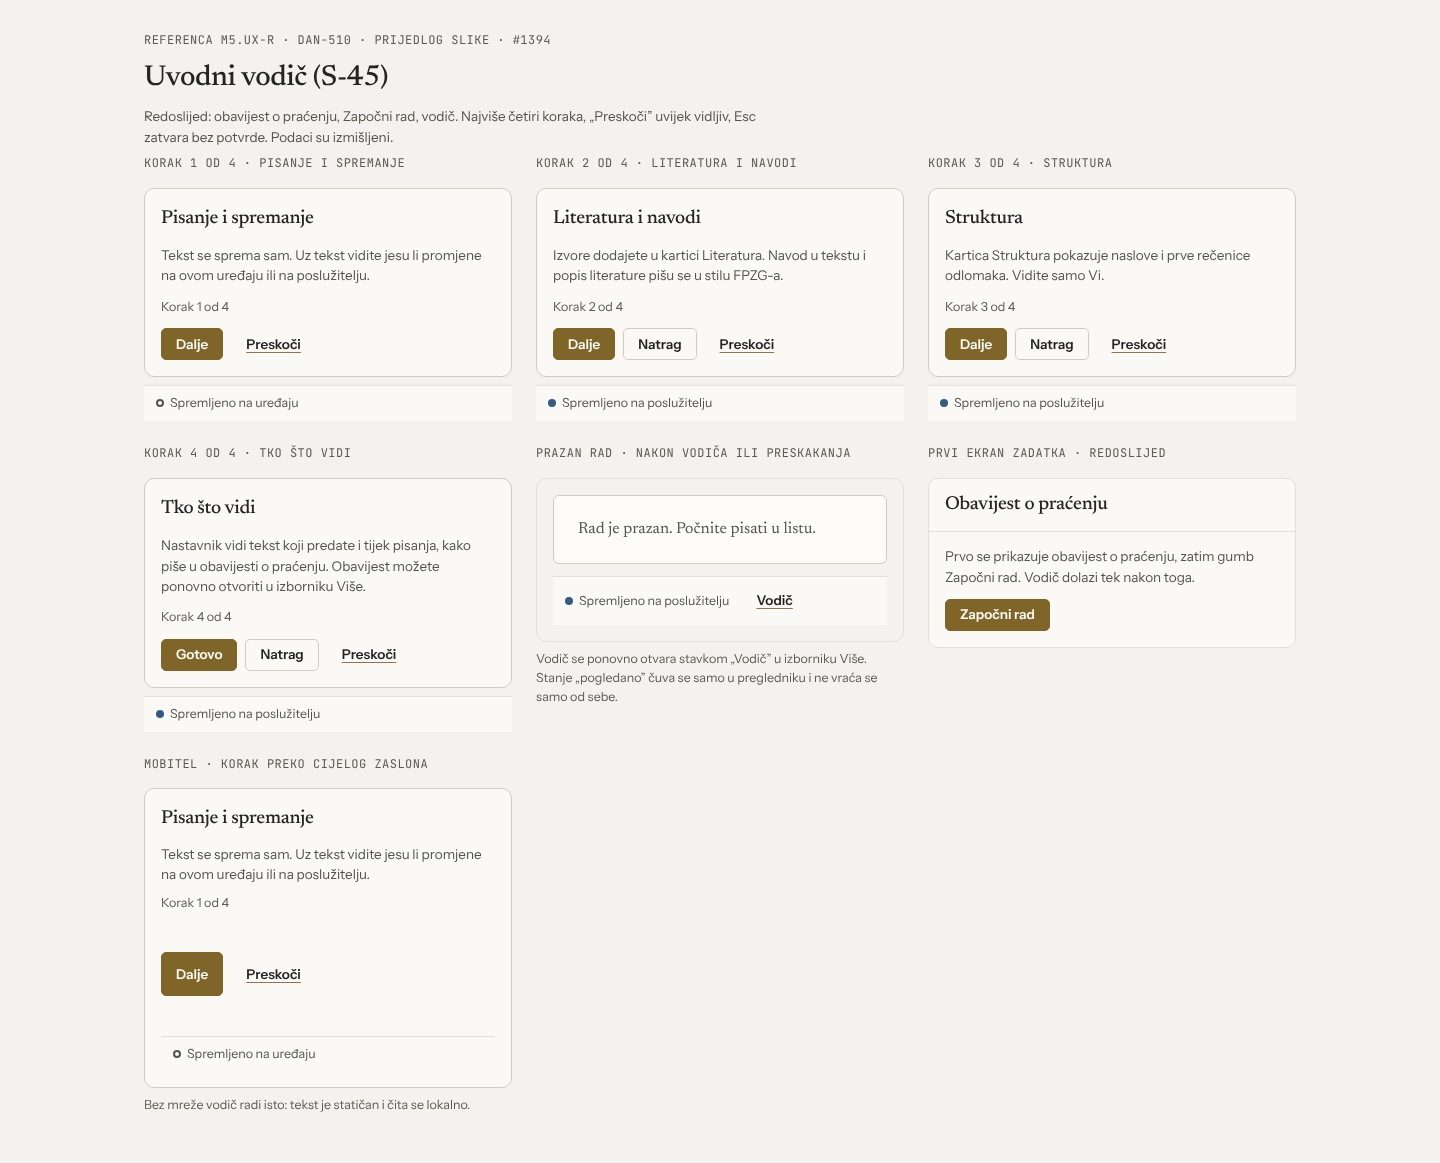
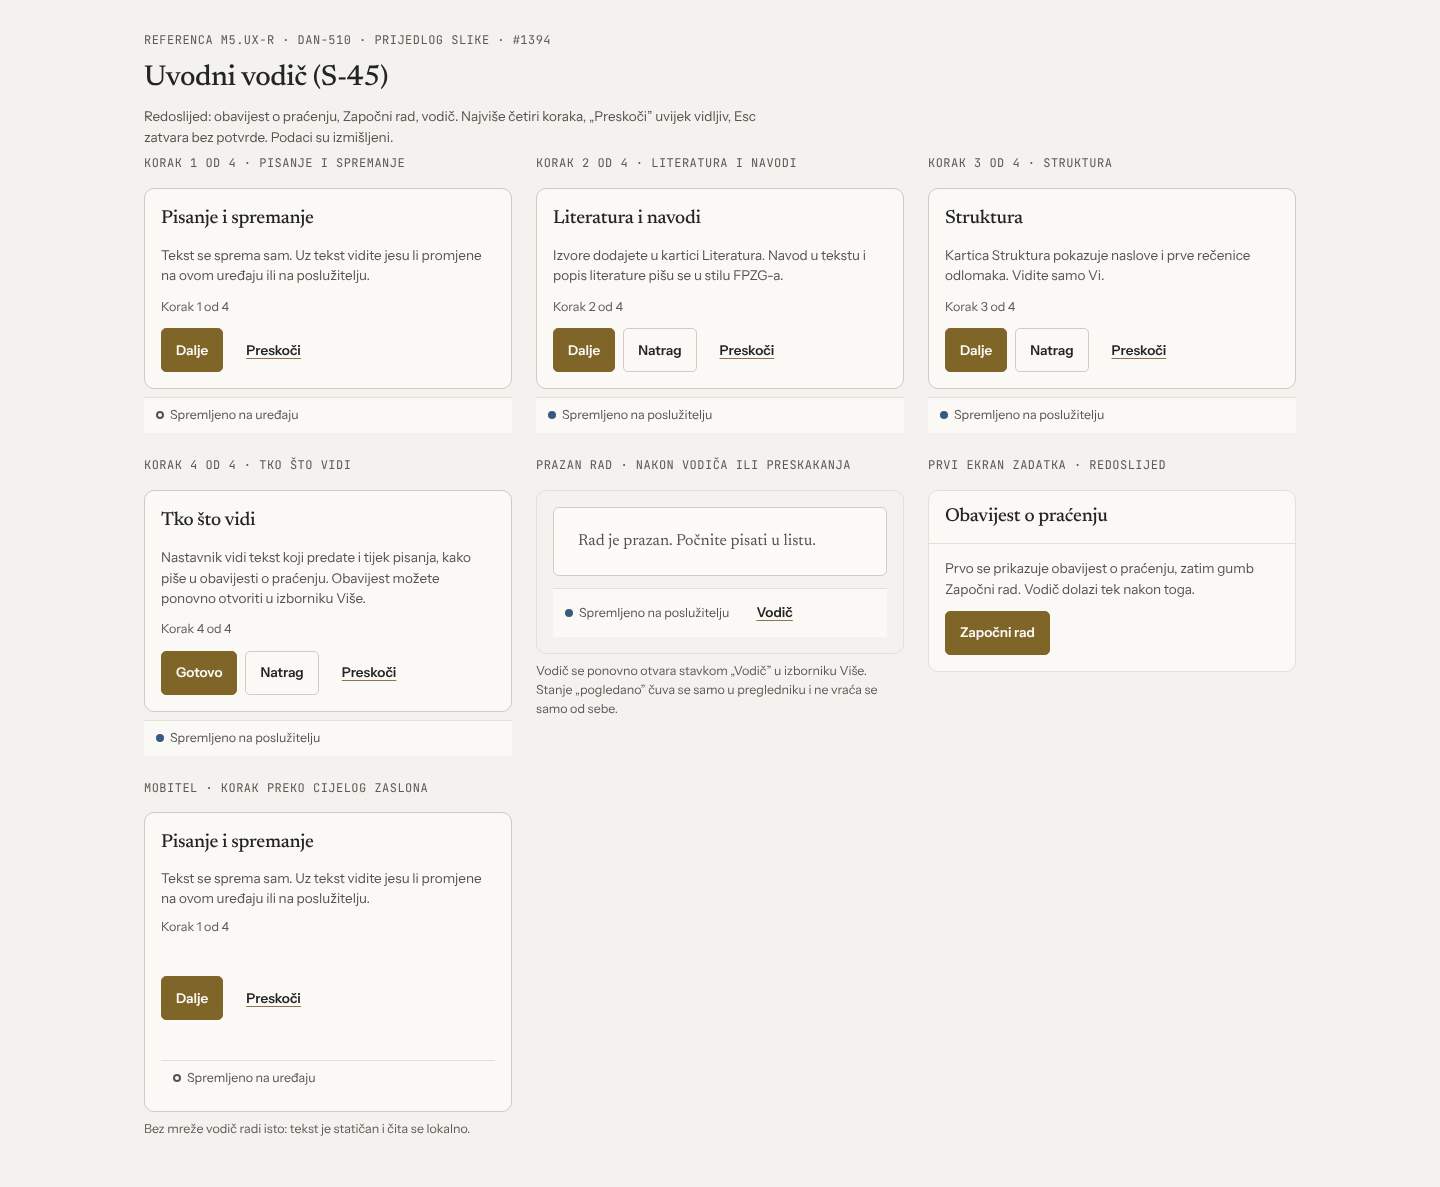
docs: take 44px default buttons from shared reference.css in M5 reference part B (DAN-510)
Claude-Session: https://claude.ai/code/session_011GCKG6LMy3uswLDwXF1SrX

diff --git a/docs/design/ductura/m5-reference/reference.css b/docs/design/ductura/m5-reference/reference.css
@@ -50,7 +50,7 @@ a { color: var(--accent); text-decoration: underline; text-decoration-color: var
 .row.stale .obs { color: var(--ink-2); }
 .stale-mark { font-size: 12.5px; color: var(--ink-2); font-weight: 600; }
 .facts { margin: 0; padding-left: 18px; color: var(--ink-2); display: grid; gap: 2px; }
-.btn { font: 600 13.5px/1 var(--ff-ui); min-height: 32px; padding: 0 14px; border-radius: 5px; border: 1px solid var(--accent); background: var(--accent); color: var(--accent-ink); justify-self: start; cursor: pointer; }
+.btn { font: 600 13.5px/1 var(--ff-ui); min-height: 44px; padding: 0 14px; border-radius: 5px; border: 1px solid var(--accent); background: var(--accent); color: var(--accent-ink); justify-self: start; cursor: pointer; }
 .btn.secondary { background: transparent; color: var(--ink); border-color: var(--rule); }
 .skel { height: 12px; border-radius: 4px; background: var(--well); }
 .skel.w60 { width: 60%; } .skel.w80 { width: 80%; } .skel.w40 { width: 40%; }
@@ -61,7 +61,9 @@ a { color: var(--accent); text-decoration: underline; text-decoration-color: var
 .page { max-width: 1200px; margin: 0 auto; padding: 0 24px 48px; display: grid; gap: 28px; }
 .variants { display: grid; grid-template-columns: repeat(3, 1fr); gap: 24px; align-items: start; }
 .variant { display: grid; gap: 8px; min-width: 0; }
-.btn.small { min-height: 32px; padding: 0 10px; }
+.btn.small { padding: 0 10px; }
+/* DESIGN-SYSTEM §5: 32 px samo u gustim trakama; drugdje i na mobitelu 44 px. */
+.panel-top .btn.small, .item .acts .btn.small, .statusbar .btn.small { min-height: 32px; }
 .btn.ghost { background: transparent; color: var(--ink); border-color: transparent; text-decoration: underline; text-decoration-color: var(--link-rule); text-underline-offset: 3px; }
 .btn[aria-disabled="true"] { opacity: 1; background: var(--well); color: var(--ink-3); border-color: var(--rule-2); cursor: not-allowed; }
 .tag { display: inline-block; font-size: 12.5px; font-weight: 600; color: var(--ink-2); border: 1px solid var(--rule); border-radius: 4px; padding: 1px 6px; white-space: nowrap; }
@@ -79,6 +81,9 @@ a { color: var(--accent); text-decoration: underline; text-decoration-color: var
 .sheet { --sheet: #fcfbf8; --ink: #242422; --ink-2: #55534d; --ink-3: #5c5a54; --rule: #cfccc4; --well: #efede7; --accent: #806529;
   background: var(--sheet); color: var(--ink); border: 1px solid var(--rule); border-radius: 6px; padding: 20px 24px; font: 16px/1.7 var(--ff-display); display: grid; gap: 10px; }
 .sheet p { margin: 0; }
+/* Oznaka fusnote: cilj dodira 44 × 44 px (#1386 t. 6); negativne margine čuvaju redak, broj ostaje mala gornja oznaka. */
+.sheet .fn { position: relative; z-index: 1; display: inline-flex; justify-content: center; align-items: center; width: 44px; height: 44px; margin: -12px -18px; color: inherit; text-decoration: none; }
+.sheet .fn sup { position: relative; top: -0.45em; font-size: 0.75em; line-height: 1; }
 .mark { background: var(--well); border-bottom: 2px solid var(--accent); padding: 0 2px; }
 .toast { background: var(--raised); border: 1px solid var(--rule); border-radius: 6px; padding: 10px 12px; display: flex; gap: 12px; align-items: center; justify-content: space-between; flex-wrap: wrap; }
 .workspace { display: grid; grid-template-columns: 220px 1fr; border: 1px solid var(--rule-2); border-radius: 10px; overflow: clip; background: var(--ground); }
@@ -100,7 +105,7 @@ a { color: var(--accent); text-decoration: underline; text-decoration-color: var
   .variants { grid-template-columns: 1fr; }
   .workspace { grid-template-columns: 1fr; }
   .workspace .rail { border-right: 0; border-bottom: 1px solid var(--rule-2); }
-  .btn, .btn.small, .input { min-height: 44px; }
+  .btn, .btn.small, .panel-top .btn.small, .item .acts .btn.small, .statusbar .btn.small, .input { min-height: 44px; }
   .panel a, .rail a { display: inline-flex; align-items: center; min-height: 44px; min-width: 44px; }
   .tag, .field label, .statusbar, .src { font-size: 13px; }
 }
